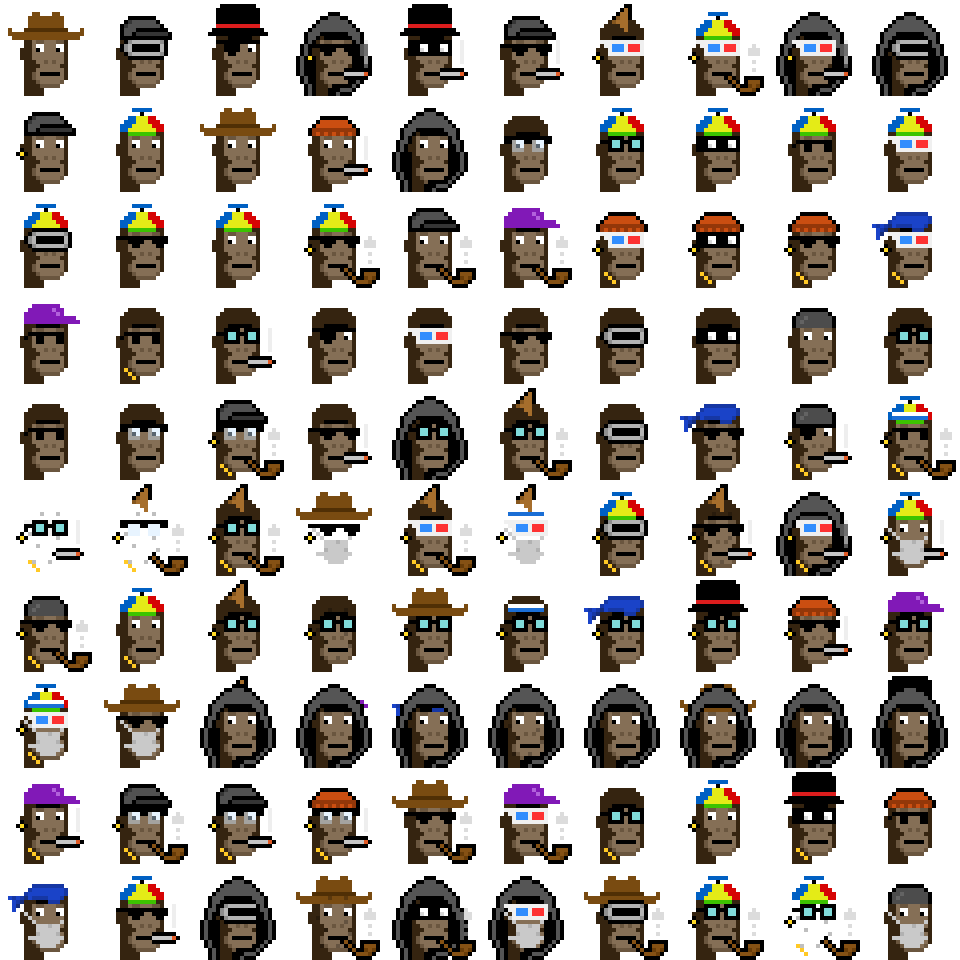
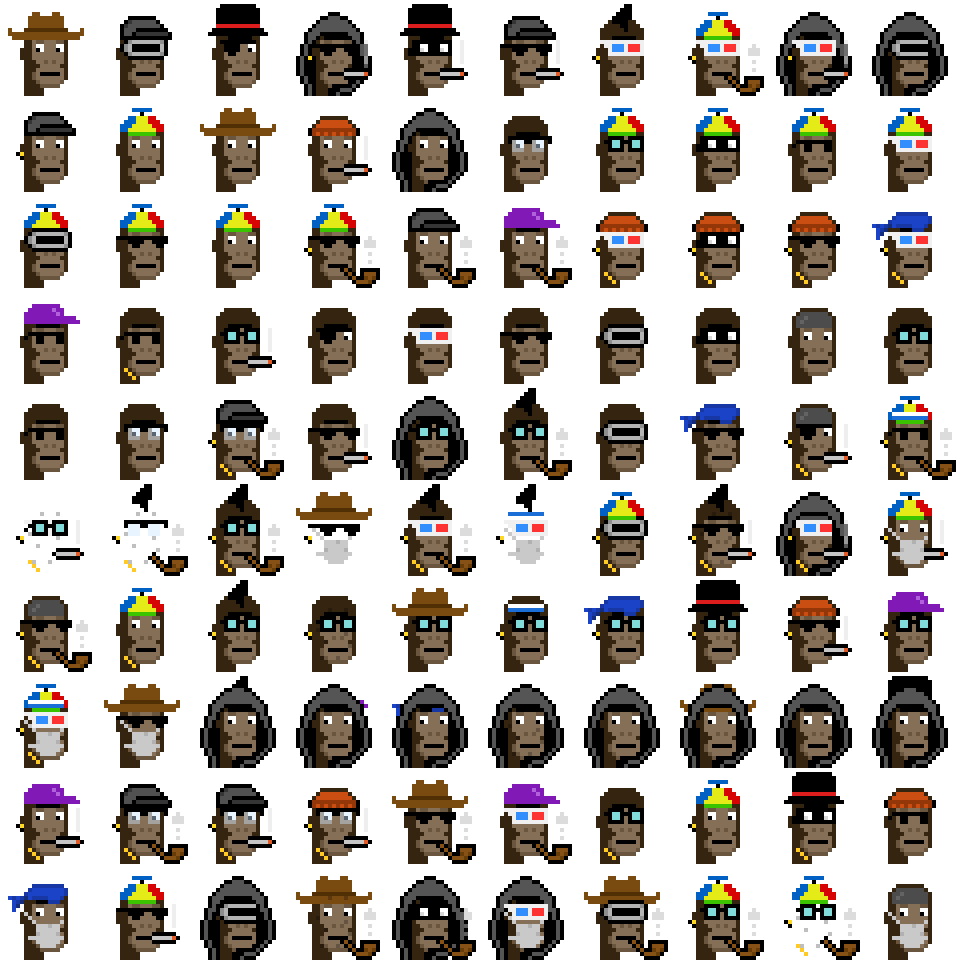
up

diff --git a/diyapes/generate.rb b/diyapes/generate.rb
@@ -1,5 +1,10 @@
 require 'punkmaker'
-require 'punks'
+
+
+sheet = Pixelart::Spritesheet.read( '../generative-orc-721/docs/diyapes/spritesheet.png',
+                                    '../generative-orc-721/diyapes/meta.csv',
+                                    width: 24,
+                                    height: 24 )
 
 
 recs = read_csv( "./diyapes/diyapes.csv" )
@@ -11,14 +16,17 @@ puts "   #{recs.size} record(s)"
 
 composite = ImageComposite.new( 10, 10 )
 
+
+base = sheet.find_by( name: 'Ape' )
+
 recs.each do |rec|
    ape = Image.new( 24, 24 )
 
-   ape.compose!( Punk::Ape.make  )    unless rec['type'].empty?
+   ape.compose!( base )    unless rec['type'].empty?
 
    accessories = rec['accessories'].split( '/' )
    accessories.each do |name|
-      img = Punk::Sheet.find_by( name: name, gender: 'm', size: 'l' )
+      img = sheet.find_by( name: name )
       ape.compose!( img )
    end
 
@@ -32,18 +40,20 @@ composite.zoom(4).save( "./tmp/diyapes@4x.png" )
 ######
 # variant 2 - gold(en)
 
-GOLD          =  '#ffd700'
 
 composite = ImageComposite.new( 10, 10 )
+
+GOLD = '#ffd700'
+base = Punk::Ape.make( GOLD )
 
 recs.each do |rec|
    ape = Image.new( 24, 24 )
 
-   ape.compose!( Punk::Ape.make( GOLD )  )    unless rec['type'].empty?
+   ape.compose!( base )    unless rec['type'].empty?
 
    accessories = rec['accessories'].split( '/' )
    accessories.each do |name|
-      img = Punk::Sheet.find_by( name: name, gender: 'm', size: 'l' )
+      img = sheet.find_by( name: name )
       ape.compose!( img )
    end
 
@@ -58,18 +68,19 @@ composite.zoom(4).save( "./tmp/diyapes-gold@4x.png" )
 ######
 # variant 3 - (deep) pink
 
-DEEPPINK      =  '#ff1493'
-
 composite = ImageComposite.new( 10, 10 )
+
+DEEP_PINK      =  '#ff1493'
+base = Punk::Ape.make( DEEP_PINK )
 
 recs.each do |rec|
    ape = Image.new( 24, 24 )
 
-   ape.compose!( Punk::Ape.make( DEEPPINK )  )    unless rec['type'].empty?
+   ape.compose!( base )    unless rec['type'].empty?
 
    accessories = rec['accessories'].split( '/' )
    accessories.each do |name|
-      img = Punk::Sheet.find_by( name: name, gender: 'm', size: 'l' )
+      img = sheet.find_by( name: name )
       ape.compose!( img )
    end
 
@@ -86,14 +97,16 @@ composite.zoom(4).save( "./tmp/diyapes-pink@4x.png" )
 
 composite = ImageComposite.new( 10, 10 )
 
+base = Image.read( './diyapes/ape-natural.png')
+
 recs.each do |rec|
    ape = Image.new( 24, 24 )
 
-   ape.compose!( Image.read( './diyapes/ape-natural.png')  )    unless rec['type'].empty?
+   ape.compose!( base )    unless rec['type'].empty?
 
    accessories = rec['accessories'].split( '/' )
    accessories.each do |name|
-      img = Punk::Sheet.find_by( name: name, gender: 'm', size: 'l' )
+      img = sheet.find_by( name: name )
       ape.compose!( img )
    end
 
@@ -102,6 +115,36 @@ end
 
 composite.save( "./tmp/diyapes-ii.png" )
 composite.zoom(4).save( "./tmp/diyapes-ii@4x.png" )
+
+
+
+######
+# variant 5 - (bitcoin) orange-pilled
+
+composite = ImageComposite.new( 10, 10 )
+
+BITCOIN_ORANGE = '#f7931a'
+base = Punk::Ape.make( BITCOIN_ORANGE )
+background = Image.read( './diyapes/bitcoin-pattern.png')
+
+
+recs.each do |rec|
+   ape = Image.new( 24, 24 )
+
+   ape.compose!( background )
+   ape.compose!( base )    unless rec['type'].empty?
+
+   accessories = rec['accessories'].split( '/' )
+   accessories.each do |name|
+      img = sheet.find_by( name: name )
+      ape.compose!( img )
+   end
+
+   composite << ape  
+end
+
+composite.save( "./tmp/diyapes-bitcoin.png" )
+composite.zoom(4).save( "./tmp/diyapes-bitcoin@4x.png" )
 
 
 

diff --git a/README.md b/README.md
@@ -88,6 +88,17 @@ Variant No. 3  -  Natural (w/ Big Eyes)
 </details>
 
 
+Variant No. 4  -  (Bitcoin) Orange-Pilled
+
+![](diyapes/i/diyapes-bitcoin.png)
+
+<details>
+<summary markdown="1">4x</summary>
+
+![](diyapes/i/diyapes-bitcoin@4x.png)
+
+</details>
+
 
 
 
